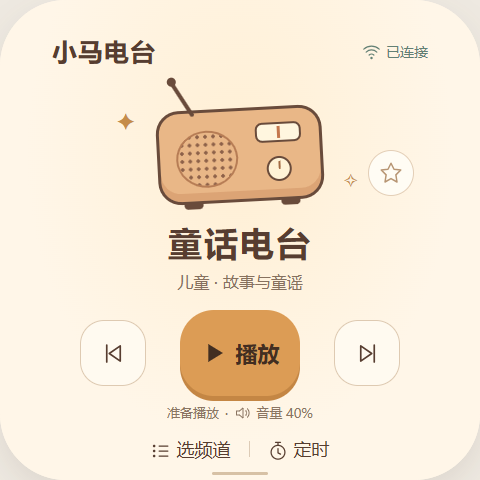
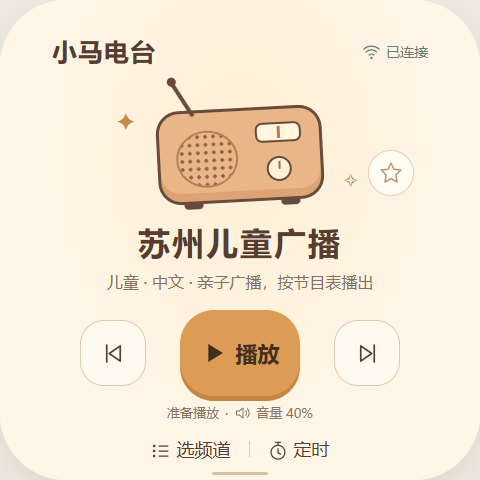
Verify real radio stations and align child-first channel prototype

Changed region(s): [[0.2188, 0.4688, 0.7812, 0.625]]

diff --git a/brookesia-apps/radio/design/preview.html b/brookesia-apps/radio/design/preview.html
@@ -1,7 +1,7 @@
 <!doctype html>
 <html lang="zh-CN"><head><meta charset="utf-8"><meta name="viewport" content="width=device-width,initial-scale=1"><title>小马电台 · 界面预览</title>
 <style>
-*{box-sizing:border-box}body{margin:0;background:#eee9e1;color:#573d30;font-family:"Microsoft YaHei","PingFang SC",sans-serif}button{font:inherit;color:inherit;cursor:pointer;-webkit-tap-highlight-color:transparent}button:focus-visible{outline:3px solid #668d83;outline-offset:3px}button:active{transform:translateY(1px)}[hidden]{display:none!important}.preview{width:min(520px,100%);margin:28px auto;padding:0 20px}.caption{display:flex;align-items:center;justify-content:space-between;margin:0 0 15px;font-size:13px;color:#79685b}.caption strong{font-size:16px;color:#573d30}.stage{position:relative;width:100%;aspect-ratio:1}.device{position:absolute;width:480px;height:480px;overflow:hidden;transform:scale(var(--scale,1));transform-origin:top left;border-radius:66px;background:#fff6e8;box-shadow:0 12px 30px #4e39231a}.screen{position:absolute;inset:0}.main{background:radial-gradient(ellipse at 50% 32%,#ffefd4 0,#fff6e8 63%)}.top{position:absolute;left:52px;right:52px;top:30px;height:42px;display:flex;align-items:center;justify-content:space-between}.brand{font-size:25px;font-weight:700;letter-spacing:1px}.connection{display:flex;align-items:center;gap:5px;color:#638074;font-size:14px}.icon{width:25px;height:25px;fill:none;stroke:currentColor;stroke-width:2;stroke-linecap:round;stroke-linejoin:round;vertical-align:middle}.connection .icon{width:19px;height:19px}.radio-art{position:absolute;left:157px;top:108px;width:166px;height:94px;background:#e9b787;border:3px solid #694b3b;border-radius:23px;box-shadow:inset 0 -8px #dca475;transform:rotate(-3deg)}.antenna{position:absolute;height:43px;width:4px;background:#694b3b;left:33px;top:-40px;transform-origin:bottom;transform:rotate(-30deg);border-radius:5px}.antenna:before{content:"";position:absolute;width:9px;height:9px;background:#694b3b;top:-2px;left:-2px;border-radius:50%}.speaker{position:absolute;left:16px;top:18px;width:62px;height:57px;border-radius:50%;border:2px solid #b77d55;background:radial-gradient(#8c6048 1.5px,transparent 2px) 0 0/8px 8px}.dial{position:absolute;right:18px;top:13px;width:46px;height:20px;background:#fff6df;border:2px solid #694b3b;border-radius:7px}.dial:after{content:"";position:absolute;left:20px;top:2px;width:3px;height:12px;background:#c4774d}.knob{position:absolute;right:29px;bottom:16px;width:25px;height:25px;background:#fff3d7;border:2px solid #694b3b;border-radius:50%}.knob:after{content:"";position:absolute;left:10px;top:3px;width:2px;height:8px;background:#a36b44;border-radius:2px}.foot{position:absolute;width:19px;height:6px;background:#694b3b;border-radius:0 0 4px 4px;bottom:-8px;left:22px}.foot.right{left:auto;right:22px}.spark{position:absolute;color:#c58c49;font-size:24px;left:116px;top:104px}.spark.right{left:343px;top:166px;font-size:19px}.station-name{position:absolute;top:220px;left:55px;right:55px;margin:0;font-size:34px;line-height:45px;text-align:center;font-weight:700;letter-spacing:2px}.station-meta{position:absolute;top:270px;left:50px;right:50px;text-align:center;font-size:16px;color:#87715e;line-height:24px}.favorite{position:absolute;top:150px;right:66px;background:#fffcf4;border:1px solid #e3ceb6;border-radius:50%;width:46px;height:46px;color:#b79573;display:grid;place-items:center}.favorite.active{color:#be7347;background:#ffe7c5}.favorite .icon{width:24px;height:24px}.favorite.active .icon{fill:#e4a870;stroke:#ae653b}.transport{position:absolute;top:310px;left:80px;right:80px;height:86px;display:flex;align-items:center;justify-content:space-between}.skip{width:66px;height:66px;background:#fffaf0;border:1px solid #decab2;border-radius:24px;display:grid;place-items:center}.skip .icon{width:27px;height:27px}.play{height:86px;width:120px;border:0;border-radius:34px;background:#dc9c55;box-shadow:0 5px 0 #c48644;display:flex;align-items:center;justify-content:center;gap:9px;color:#422e21;font-size:22px;font-weight:700}.play .icon{width:26px;height:26px;fill:currentColor;stroke-width:0}.status{position:absolute;top:403px;left:50px;right:50px;display:flex;align-items:center;justify-content:center;gap:6px;font-size:13px;color:#8b7562}.status .icon{width:16px;height:16px}.dot{height:5px;width:5px;background:#7b9878;border-radius:50%;margin-right:1px}.bottom{position:absolute;top:431px;left:105px;right:105px;display:flex;gap:12px;justify-content:center}.bottom button{height:36px;border:0;background:transparent;display:flex;align-items:center;justify-content:center;gap:6px;font-size:18px;white-space:nowrap;padding:0 6px}.bottom .icon{width:20px;height:20px}.divider{height:16px;width:1px;background:#ddcbb6;align-self:center}.gesture{position:absolute;left:212px;bottom:5px;width:56px;height:3px;border-radius:4px;background:#d7c1a5}.page-title{position:absolute;top:34px;left:60px;right:60px;display:flex;justify-content:center;align-items:center;font-size:26px;font-weight:700;height:42px}.back{position:absolute;left:0;width:44px;height:44px;border:0;background:transparent;border-radius:50%;display:grid;place-items:center}.categories{position:absolute;left:42px;right:42px;top:94px;display:flex;gap:7px}.category{flex:1;height:42px;border:0;border-radius:15px;background:#f4e7d4;font-size:18px}.category.active{background:#e5ad70;color:#4f3421;font-weight:700}.station-list{position:absolute;left:42px;right:42px;top:156px;display:grid;gap:13px}.station-row{border:1px solid #e1cdb5;min-height:76px;border-radius:23px;background:#fffaf1;padding:10px 13px;display:flex;align-items:center;text-align:left;gap:13px}.station-row.selected{border:2px solid #cb945b;background:#ffedcf;padding:9px 12px}.station-symbol{width:47px;height:47px;display:grid;place-items:center;border-radius:15px;background:#e6eadc;color:#6d805f;font-size:23px;font-weight:700;flex-shrink:0}.station-row:nth-child(2) .station-symbol{background:#e3e8ed;color:#6d7d93}.station-row:nth-child(3) .station-symbol{background:#f4e1ce;color:#ae7d59}.row-content{flex:1}.row-name{font-size:22px;font-weight:700;line-height:29px}.row-sub{font-size:13px;color:#937b65;margin-top:3px}.row-end{width:24px;color:#bd8349;display:grid;place-items:center}.row-end .icon{width:22px;height:22px}.list-footer{position:absolute;top:437px;left:60px;right:60px;text-align:center;font-size:14px;color:#947e6b}.empty{text-align:center;font-size:21px;color:#8e7660;padding:64px 0}.timer-sub{position:absolute;top:90px;text-align:center;left:50px;right:50px;font-size:16px;color:#8c7460}.timer-art{position:absolute;width:65px;height:65px;top:136px;left:207px;object-fit:contain}.timer-choices{position:absolute;top:226px;left:65px;right:65px;display:grid;grid-template-columns:1fr 1fr;gap:14px}.timer-choice{height:70px;background:#fffaf1;border:1px solid #ddc9b0;border-radius:22px;font-size:24px}.timer-choice.active{background:#ffebc7;border:2px solid #c48d53;font-weight:700}.timer-confirm{position:absolute;top:405px;left:144px;width:192px;height:46px;border:0;border-radius:19px;background:#dca05e;font-size:21px;font-weight:700}.timer-note{position:absolute;top:381px;left:50px;right:50px;text-align:center;font-size:13px;color:#937b65}.equ{display:flex;height:14px;align-items:center;gap:2px;margin-right:3px}.equ i{display:block;width:3px;height:6px;border-radius:3px;background:#789471}.equ i:nth-child(2){height:12px}.equ i:nth-child(3){height:8px}.hint{font-size:12px;line-height:1.8;color:#8c7d6b;text-align:center;margin:18px 0 0}.preview-nav{display:flex;justify-content:center;gap:8px;margin-top:18px}.preview-nav button{border:1px solid #cfc2b1;background:transparent;border-radius:20px;padding:8px 16px;color:#6b5846;font-size:13px}.preview-nav button:hover{background:#e6ddd0}@media(max-width:400px){.caption{font-size:11px}.caption strong{font-size:14px}.preview{margin:20px auto}.preview-nav button{padding:8px 12px}}@media(prefers-reduced-motion:no-preference){.playing .equ i{animation:level .9s ease-in-out infinite alternate}.playing .equ i:nth-child(2){animation-delay:-.3s}.playing .equ i:nth-child(3){animation-delay:-.6s}@keyframes level{to{height:3px}}}
+*{box-sizing:border-box}body{margin:0;background:#eee9e1;color:#573d30;font-family:"Microsoft YaHei","PingFang SC",sans-serif}button{font:inherit;color:inherit;cursor:pointer;-webkit-tap-highlight-color:transparent}button:focus-visible{outline:3px solid #668d83;outline-offset:3px}button:active{transform:translateY(1px)}[hidden]{display:none!important}.preview{width:min(520px,100%);margin:28px auto;padding:0 20px}.caption{display:flex;align-items:center;justify-content:space-between;margin:0 0 15px;font-size:13px;color:#79685b}.caption strong{font-size:16px;color:#573d30}.stage{position:relative;width:100%;aspect-ratio:1}.device{position:absolute;width:480px;height:480px;overflow:hidden;transform:scale(var(--scale,1));transform-origin:top left;border-radius:66px;background:#fff6e8;box-shadow:0 12px 30px #4e39231a}.screen{position:absolute;inset:0}.main{background:radial-gradient(ellipse at 50% 32%,#ffefd4 0,#fff6e8 63%)}.top{position:absolute;left:52px;right:52px;top:30px;height:42px;display:flex;align-items:center;justify-content:space-between}.brand{font-size:25px;font-weight:700;letter-spacing:1px}.connection{display:flex;align-items:center;gap:5px;color:#638074;font-size:14px}.icon{width:25px;height:25px;fill:none;stroke:currentColor;stroke-width:2;stroke-linecap:round;stroke-linejoin:round;vertical-align:middle}.connection .icon{width:19px;height:19px}.radio-art{position:absolute;left:157px;top:108px;width:166px;height:94px;background:#e9b787;border:3px solid #694b3b;border-radius:23px;box-shadow:inset 0 -8px #dca475;transform:rotate(-3deg)}.antenna{position:absolute;height:43px;width:4px;background:#694b3b;left:33px;top:-40px;transform-origin:bottom;transform:rotate(-30deg);border-radius:5px}.antenna:before{content:"";position:absolute;width:9px;height:9px;background:#694b3b;top:-2px;left:-2px;border-radius:50%}.speaker{position:absolute;left:16px;top:18px;width:62px;height:57px;border-radius:50%;border:2px solid #b77d55;background:radial-gradient(#8c6048 1.5px,transparent 2px) 0 0/8px 8px}.dial{position:absolute;right:18px;top:13px;width:46px;height:20px;background:#fff6df;border:2px solid #694b3b;border-radius:7px}.dial:after{content:"";position:absolute;left:20px;top:2px;width:3px;height:12px;background:#c4774d}.knob{position:absolute;right:29px;bottom:16px;width:25px;height:25px;background:#fff3d7;border:2px solid #694b3b;border-radius:50%}.knob:after{content:"";position:absolute;left:10px;top:3px;width:2px;height:8px;background:#a36b44;border-radius:2px}.foot{position:absolute;width:19px;height:6px;background:#694b3b;border-radius:0 0 4px 4px;bottom:-8px;left:22px}.foot.right{left:auto;right:22px}.spark{position:absolute;color:#c58c49;font-size:24px;left:116px;top:104px}.spark.right{left:343px;top:166px;font-size:19px}.station-name{white-space:nowrap;position:absolute;top:220px;left:55px;right:55px;margin:0;font-size:32px;line-height:45px;text-align:center;font-weight:700;letter-spacing:2px}.station-meta{position:absolute;top:270px;left:50px;right:50px;text-align:center;font-size:16px;color:#87715e;line-height:24px}.favorite{position:absolute;top:150px;right:66px;background:#fffcf4;border:1px solid #e3ceb6;border-radius:50%;width:46px;height:46px;color:#b79573;display:grid;place-items:center}.favorite.active{color:#be7347;background:#ffe7c5}.favorite .icon{width:24px;height:24px}.favorite.active .icon{fill:#e4a870;stroke:#ae653b}.transport{position:absolute;top:310px;left:80px;right:80px;height:86px;display:flex;align-items:center;justify-content:space-between}.skip{width:66px;height:66px;background:#fffaf0;border:1px solid #decab2;border-radius:24px;display:grid;place-items:center}.skip .icon{width:27px;height:27px}.play{height:86px;width:120px;border:0;border-radius:34px;background:#dc9c55;box-shadow:0 5px 0 #c48644;display:flex;align-items:center;justify-content:center;gap:9px;color:#422e21;font-size:22px;font-weight:700}.play .icon{width:26px;height:26px;fill:currentColor;stroke-width:0}.status{position:absolute;top:403px;left:50px;right:50px;display:flex;align-items:center;justify-content:center;gap:6px;font-size:13px;color:#8b7562}.status .icon{width:16px;height:16px}.dot{height:5px;width:5px;background:#7b9878;border-radius:50%;margin-right:1px}.bottom{position:absolute;top:431px;left:105px;right:105px;display:flex;gap:12px;justify-content:center}.bottom button{height:36px;border:0;background:transparent;display:flex;align-items:center;justify-content:center;gap:6px;font-size:18px;white-space:nowrap;padding:0 6px}.bottom .icon{width:20px;height:20px}.divider{height:16px;width:1px;background:#ddcbb6;align-self:center}.gesture{position:absolute;left:212px;bottom:5px;width:56px;height:3px;border-radius:4px;background:#d7c1a5}.page-title{position:absolute;top:34px;left:60px;right:60px;display:flex;justify-content:center;align-items:center;font-size:26px;font-weight:700;height:42px}.back{position:absolute;left:0;width:44px;height:44px;border:0;background:transparent;border-radius:50%;display:grid;place-items:center}.categories{position:absolute;left:42px;right:42px;top:94px;display:flex;gap:7px}.category{flex:1;height:42px;border:0;border-radius:15px;background:#f4e7d4;font-size:18px}.category.active{background:#e5ad70;color:#4f3421;font-weight:700}.station-list{position:absolute;left:42px;right:42px;top:156px;display:grid;gap:13px}.station-row{border:1px solid #e1cdb5;min-height:76px;border-radius:23px;background:#fffaf1;padding:10px 13px;display:flex;align-items:center;text-align:left;gap:13px}.station-row.selected{border:2px solid #cb945b;background:#ffedcf;padding:9px 12px}.station-symbol{width:47px;height:47px;display:grid;place-items:center;border-radius:15px;background:#e6eadc;color:#6d805f;font-size:23px;font-weight:700;flex-shrink:0}.station-row:nth-child(2) .station-symbol{background:#e3e8ed;color:#6d7d93}.station-row:nth-child(3) .station-symbol{background:#f4e1ce;color:#ae7d59}.row-content{flex:1;min-width:0}.row-name{display:block;white-space:nowrap}.station-list{max-height:266px;overflow-y:auto;scrollbar-width:thin}.row-name{font-size:22px;font-weight:700;line-height:29px}.row-sub{font-size:13px;color:#937b65;margin-top:3px}.row-end{width:24px;color:#bd8349;display:grid;place-items:center}.row-end .icon{width:22px;height:22px}.list-footer{position:absolute;top:437px;left:60px;right:60px;text-align:center;font-size:14px;color:#947e6b}.empty{text-align:center;font-size:21px;color:#8e7660;padding:64px 0}.timer-sub{position:absolute;top:90px;text-align:center;left:50px;right:50px;font-size:16px;color:#8c7460}.timer-art{position:absolute;width:65px;height:65px;top:136px;left:207px;object-fit:contain}.timer-choices{position:absolute;top:226px;left:65px;right:65px;display:grid;grid-template-columns:1fr 1fr;gap:14px}.timer-choice{height:70px;background:#fffaf1;border:1px solid #ddc9b0;border-radius:22px;font-size:24px}.timer-choice.active{background:#ffebc7;border:2px solid #c48d53;font-weight:700}.timer-confirm{position:absolute;top:405px;left:144px;width:192px;height:46px;border:0;border-radius:19px;background:#dca05e;font-size:21px;font-weight:700}.timer-note{position:absolute;top:381px;left:50px;right:50px;text-align:center;font-size:13px;color:#937b65}.equ{display:flex;height:14px;align-items:center;gap:2px;margin-right:3px}.equ i{display:block;width:3px;height:6px;border-radius:3px;background:#789471}.equ i:nth-child(2){height:12px}.equ i:nth-child(3){height:8px}.hint{font-size:12px;line-height:1.8;color:#8c7d6b;text-align:center;margin:18px 0 0}.preview-nav{display:flex;justify-content:center;gap:8px;margin-top:18px}.preview-nav button{border:1px solid #cfc2b1;background:transparent;border-radius:20px;padding:8px 16px;color:#6b5846;font-size:13px}.preview-nav button:hover{background:#e6ddd0}@media(max-width:400px){.caption{font-size:11px}.caption strong{font-size:14px}.preview{margin:20px auto}.preview-nav button{padding:8px 12px}}@media(prefers-reduced-motion:no-preference){.playing .equ i{animation:level .9s ease-in-out infinite alternate}.playing .equ i:nth-child(2){animation-delay:-.3s}.playing .equ i:nth-child(3){animation-delay:-.6s}@keyframes level{to{height:3px}}}
 </style></head><body>
 <main class="preview"><div class="caption"><strong>小马电台 · 奶油手绘风</strong><span>480 × 480</span></div><div class="stage"><div id="device" class="device">
 <section id="player" class="screen main" aria-label="电台播放页">
@@ -9,26 +9,27 @@
  <span class="spark" aria-hidden="true">✦</span><span class="spark right" aria-hidden="true">✧</span>
  <div class="radio-art" aria-hidden="true"><div class="antenna"></div><div class="speaker"></div><div class="dial"></div><div class="knob"></div><div class="foot"></div><div class="foot right"></div></div>
  <button id="favorite" class="favorite" aria-label="收藏当前频道" aria-pressed="false"><span data-icon="star"></span></button>
- <h1 id="station-name" class="station-name">童话电台</h1><div id="station-meta" class="station-meta">儿童 · 故事与童谣</div>
+ <h1 id="station-name" class="station-name">苏州儿童广播</h1><div id="station-meta" class="station-meta">儿童 · 中文 · 亲子广播，按节目表播出</div>
  <div class="transport"><button id="previous" class="skip" aria-label="上一个频道"><span data-icon="previous"></span></button><button id="play" class="play" aria-label="播放"><span data-icon="play"></span><span id="play-label">播放</span></button><button id="next" class="skip" aria-label="下一个频道"><span data-icon="next"></span></button></div>
  <div class="status" aria-live="polite"><span id="stream-status">准备播放</span><span>·</span><span data-icon="volume"></span><span>音量 40%</span></div>
  <nav class="bottom"><button data-open="stations"><span data-icon="list"></span>选频道</button><span class="divider"></span><button data-open="timer"><span data-icon="timer"></span><span id="timer-label">定时</span></button></nav>
 </section>
-<section id="stations" class="screen" hidden aria-label="选择电台频道"><div class="page-title"><button class="back" data-open="player" aria-label="返回播放页"><span data-icon="back"></span></button>选频道</div><div class="categories" aria-label="频道分类"><button class="category active" data-category="儿童">儿童</button><button class="category" data-category="音乐">音乐</button><button class="category" data-category="资讯">资讯</button><button class="category" data-category="收藏">收藏</button></div><div id="station-list" class="station-list" aria-live="polite"></div><div class="list-footer">点选频道，即可收听</div></section>
+<section id="stations" class="screen" hidden aria-label="选择电台频道"><div class="page-title"><button class="back" data-open="player" aria-label="返回播放页"><span data-icon="back"></span></button>选频道</div><div class="categories" aria-label="频道分类"><button class="category active" data-category="儿童">儿童</button><button class="category" data-category="音乐">音乐</button><button class="category" data-category="资讯">资讯</button><button class="category" data-category="收藏">收藏</button></div><div id="station-list" class="station-list" aria-live="polite"></div><div class="list-footer">中文优先 · 英语频道已标注</div></section>
 <section id="timer" class="screen" hidden aria-label="电台睡眠定时"><div class="page-title"><button class="back" data-open="player" aria-label="返回播放页"><span data-icon="back"></span></button>睡眠定时</div><div class="timer-sub">到时停止播放，陪你安心入睡</div><img class="timer-art" src="../../weather/src/res/images/wx_moon.png" alt=""><div class="timer-choices"><button class="timer-choice active" data-minutes="0">关闭</button><button class="timer-choice" data-minutes="15">15 分钟</button><button class="timer-choice" data-minutes="30">30 分钟</button><button class="timer-choice" data-minutes="45">45 分钟</button></div><div id="timer-note" class="timer-note">持续收听，不自动停止</div><button id="timer-confirm" class="timer-confirm">确定</button></section><div class="gesture" aria-hidden="true"></div>
-</div></div><nav class="preview-nav" aria-label="预览页面"><button data-open="player">播放页</button><button data-open="stations">频道页</button><button data-open="timer">定时页</button></nav><p class="hint">交互预览 · 频道名称为示例 · 不连接实际音频</p></main>
+</div></div><nav class="preview-nav" aria-label="预览页面"><button data-open="player">播放页</button><button data-open="stations">频道页</button><button data-open="timer">定时页</button></nav><p class="hint">真实频道名称 · 中文优先，少量英语 · 预览不播放音频</p></main>
+<script type="application/json" id="radio-catalog">{"schema":1,"scope":"general_internet_radio","region_switch":false,"categories":["儿童","音乐","资讯","收藏"],"stations":[{"id":"suzhou-qtfm","name":"苏州儿童广播","display_name":"苏州儿童广播","group":"儿童","sub":"中文 · 亲子广播，按节目表播出","symbol":"童","language":"zh-CN","content":"亲子综合广播，含新闻、音乐等非故事节目；不是全天儿童故事或纯儿歌频道。","broadcaster":"苏州市广播电视总台","identity_source":"https://m.qtfm.cn/channels/2807/","stream_source":"https://m.qtfm.cn/channels/2807/","stream_url":"https://lhttp.qtfm.cn/live/2807/64k.mp3","verification":{"date":"2026-11-02","scope":"computer_short_segment_decode","network_route":"configured_proxy","http_status":200,"sample_bytes":131072,"decoded_seconds":2,"audio":"mp3 (mp3float), 48000 Hz, stereo, fltp, 64 kb/s","device_playback_verified":false}},{"id":"junior-0","name":"Fun Kids Junior","display_name":"Fun Kids Junior","group":"儿童","sub":"英语 · 低龄儿歌与陪伴","symbol":"歌","language":"en-GB","content":"面向低龄儿童的歌曲与陪伴；夜间故事、摇篮曲按英国当地节目时间安排。","broadcaster":"Children's Radio UK Ltd","identity_source":"https://www.funkidslive.com/news/whats-fun-kids-junior-and-how-do-i-listen/","stream_source":"https://www.funkidslive.com/player/junior/","stream_url":"https://listen-funkids.sharp-stream.com/funkidsjunior.aac?platform=website","verification":{"date":"2026-11-02","scope":"computer_short_segment_decode","network_route":"configured_proxy","http_status":200,"sample_bytes":131072,"decoded_seconds":2,"audio":"aac (HE-AAC), 44100 Hz, stereo, fltp, 64 kb/s","device_playback_verified":false}},{"id":"story-quest-0","name":"Fun Kids Story Quest Radio","display_name":"Story Quest","group":"儿童","sub":"英语 · Fun Kids 原创故事","symbol":"书","language":"en-GB","content":"连续播出的原创故事频道；不是中文故事，未承诺全部内容适合1至3岁。","broadcaster":"Children's Radio UK Ltd","identity_source":"https://www.funkidslive.com/stations/what-is-fun-kids-story-quest-radio-and-how-do-i-listen/","stream_source":"https://www.funkidslive.com/player/story-quest/","stream_url":"https://stream.rcs.revma.com/d3xb3hq3tm0uv","verification":{"date":"2026-11-02","scope":"computer_short_segment_decode","network_route":"configured_proxy","http_status":200,"sample_bytes":131072,"decoded_seconds":2,"audio":"aac (HE-AAC), 44100 Hz, stereo, fltp, 47 kb/s","device_playback_verified":false}},{"id":"cnr-classic","name":"经典音乐广播","group":"音乐","sub":"中文 · 央广经典音乐","symbol":"典","broadcaster":"中央广播电视总台","identity_source":"https://ent.cnr.cn/ylzt/goldenradio/","stream_url":"https://ngcdn001.cnr.cn/live/dszs/index.m3u8","verification":{"date":"2026-11-02","scope":"computer_short_segment_decode","playlist_http_status":200,"segment_http_status":200,"segment_bytes":252296,"decoded_seconds":2,"audio":"aac (LC) ([15][0][0][0] / 0x000F), 48000 Hz, stereo, fltp, 192 kb/s","device_playback_verified":false,"network_route":"configured_proxy"},"display_name":"经典音乐广播","language":"zh-CN","content":"按电台节目表播出；不是全天轻音乐或儿童专属频道。"},{"id":"naps-0","name":"Fun Kids Naps","display_name":"Fun Kids Naps","group":"音乐","sub":"英语 · 摇篮曲与睡眠音乐","symbol":"眠","language":"en-GB","content":"以摇篮曲、舒缓睡眠音乐为主，含英语歌曲。","broadcaster":"Children's Radio UK Ltd","identity_source":"https://www.funkidslive.com/stations/fun-kids-naps/what-is-fun-kids-naps/","stream_source":"https://www.funkidslive.com/player/naps/","stream_url":"https://stream.rcs.revma.com/pp2cg1z3tm0uv","verification":{"date":"2026-11-02","scope":"computer_short_segment_decode","network_route":"configured_proxy","http_status":200,"sample_bytes":131072,"decoded_seconds":2,"audio":"mp3 (mp3float), 44100 Hz, stereo, fltp, 128 kb/s","device_playback_verified":false}},{"id":"sleep-sounds-0","name":"Fun Kids Sleep Sounds","display_name":"Sleep Sounds","group":"音乐","sub":"自然声音 · 海浪、雨声与溪流","symbol":"雨","language":"nature","content":"自然环境声，包括海浪、风、雨与炉火、鸟鸣、溪流和林间声；不是中文朗读。","broadcaster":"Children's Radio UK Ltd","identity_source":"https://www.funkidslive.com/stations/what-is-fun-kids-sleep-sounds-and-how-do-i-listen/","stream_source":"https://www.funkidslive.com/player/sleep-sounds/","stream_url":"https://stream.rcs.revma.com/5skkr2gtuy8uv","verification":{"date":"2026-11-02","scope":"computer_short_segment_decode","network_route":"configured_proxy","http_status":200,"sample_bytes":131072,"decoded_seconds":2,"audio":"aac (HE-AAC), 44100 Hz, stereo, fltp, 47 kb/s","device_playback_verified":false}},{"id":"cnr-news","name":"中国之声","group":"资讯","sub":"中文 · 新闻资讯","symbol":"新","broadcaster":"中央广播电视总台","identity_source":"https://news.cnr.cn/dj/20260216/t20260216_527529018.shtml","stream_url":"https://ngcdn001.cnr.cn/live/zgzs/index.m3u8","verification":{"date":"2026-11-02","scope":"computer_short_segment_decode","playlist_http_status":200,"segment_http_status":200,"segment_bytes":252484,"decoded_seconds":2,"audio":"aac (LC) ([15][0][0][0] / 0x000F), 48000 Hz, stereo, fltp, 192 kb/s","device_playback_verified":false,"network_route":"configured_proxy"},"display_name":"中国之声","language":"zh-CN","content":"综合新闻或财经资讯，面向普通听众。"},{"id":"cnr-economy","name":"经济之声","group":"资讯","sub":"中文 · 财经资讯","symbol":"经","broadcaster":"中央广播电视总台","identity_source":"https://news.cnr.cn/dj/20260216/t20260216_527529018.shtml","stream_url":"https://ngcdn002.cnr.cn/live/jjzs/index.m3u8","verification":{"date":"2026-11-02","scope":"computer_short_segment_decode","playlist_http_status":200,"segment_http_status":200,"segment_bytes":253612,"decoded_seconds":2,"audio":"aac (LC) ([15][0][0][0] / 0x000F), 48000 Hz, stereo, fltp, 192 kb/s","device_playback_verified":false,"network_route":"configured_proxy"},"display_name":"经济之声","language":"zh-CN","content":"综合新闻或财经资讯，面向普通听众。"}],"limitations":["Official/provider identity and a short computer decode verified on 2026-11-02 through the configured proxy. Direct device connectivity and long-term stability remain unverified.","The interface remains a silent prototype; selecting a station makes no network request.","Children category is a content grouping, not a guarantee of every programme being suitable for ages 1 to 3. Chinese family radio is not an all-day story channel.","Public stream availability may change. Provider sites/apps remain the fallback."]}</script>
 <script>
 (()=>{'use strict';
 const shapes={wifi:'<path d="M3 12a19 19 0 0 1 26 0M7 17a13 13 0 0 1 18 0M12 22a6 6 0 0 1 8 0"/><circle cx="16" cy="27" r="1"/>',play:'<path d="M9 5v22l18-11z"/>',pause:'<rect x="7" y="5" width="6" height="22" rx="2"/><rect x="19" y="5" width="6" height="22" rx="2"/>',previous:'<path d="M8 6v20M24 7L11 16l13 9z"/>',next:'<path d="M24 6v20M8 7l13 9-13 9z"/>',star:'<path d="m16 3 4 8 9 1-6.5 6.5L24 28l-8-4.5L8 28l1.5-9.5L3 12l9-1z"/>',list:'<path d="M13 8h14M13 16h14M13 24h14"/><circle cx="5" cy="8" r="1"/><circle cx="5" cy="16" r="1"/><circle cx="5" cy="24" r="1"/>',timer:'<circle cx="16" cy="18" r="11"/><path d="M16 12v7l4 2M12 2h8M16 2v5"/>',volume:'<path d="m5 12 6 0 7-6v20l-7-6H5zM23 11a7 7 0 0 1 0 10M26 7a12 12 0 0 1 0 18"/>',back:'<path d="m20 6-10 10 10 10"/>',check:'<path d="m6 16 7 7L27 8"/>'};
 const icon=name=>'<svg class="icon" viewBox="0 0 32 32" aria-hidden="true">'+shapes[name]+'</svg>';
 document.querySelectorAll('[data-icon]').forEach(n=>n.innerHTML=icon(n.dataset.icon));
-const channels=[{name:'童话电台',group:'儿童',sub:'故事与童谣',symbol:'童'},{name:'睡前故事',group:'儿童',sub:'轻声陪伴，慢慢入睡',symbol:'月'},{name:'童谣小屋',group:'儿童',sub:'一起唱，开心听',symbol:'乐'},{name:'轻音乐电台',group:'音乐',sub:'轻松旋律',symbol:'音'},{name:'钢琴时光',group:'音乐',sub:'安静的琴声',symbol:'琴'},{name:'自然之声',group:'音乐',sub:'风声、鸟鸣与雨声',symbol:'森'},{name:'新闻电台',group:'资讯',sub:'听见今日新鲜事',symbol:'新'},{name:'城市之声',group:'资讯',sub:'身边的人与故事',symbol:'城'},{name:'文化漫谈',group:'资讯',sub:'听一段好时光',symbol:'文'}];
+const channels=JSON.parse(document.getElementById('radio-catalog').textContent).stations;
 let current=0,playing=false,category='儿童',minutes=0,draftMinutes=0;const favorites=new Set();
 const byId=id=>document.getElementById(id);
 function show(screen){['player','stations','timer'].forEach(s=>byId(s).hidden=s!==screen);if(screen==='stations')renderList();if(screen==='timer'){draftMinutes=minutes;renderTimer();}}
-function renderPlayer(){const ch=channels[current];byId('station-name').textContent=ch.name;byId('station-meta').textContent=ch.group+' · '+ch.sub;byId('play').innerHTML=icon(playing?'pause':'play')+'<span>'+(playing?'暂停':'播放')+'</span>';byId('play').setAttribute('aria-label',playing?'暂停':'播放');byId('player').classList.toggle('playing',playing);byId('stream-status').innerHTML=playing?'<span class="equ" aria-hidden="true"><i></i><i></i><i></i></span>正在播放':'准备播放';byId('stream-status').style.display='inline-flex';byId('stream-status').style.alignItems='center';byId('favorite').classList.toggle('active',favorites.has(current));byId('favorite').setAttribute('aria-pressed',String(favorites.has(current)));byId('favorite').setAttribute('aria-label',favorites.has(current)?'取消收藏当前频道':'收藏当前频道');byId('timer-label').textContent=minutes?minutes+'分钟':'定时';}
+function renderPlayer(){const ch=channels[current];byId('station-name').textContent=ch.display_name||ch.name;byId('station-meta').textContent=ch.group+' · '+ch.sub;byId('play').innerHTML=icon(playing?'pause':'play')+'<span>'+(playing?'暂停':'播放')+'</span>';byId('play').setAttribute('aria-label',playing?'暂停':'播放');byId('player').classList.toggle('playing',playing);byId('stream-status').innerHTML=playing?'<span class="equ" aria-hidden="true"><i></i><i></i><i></i></span>正在播放':'准备播放';byId('stream-status').style.display='inline-flex';byId('stream-status').style.alignItems='center';byId('favorite').classList.toggle('active',favorites.has(current));byId('favorite').setAttribute('aria-pressed',String(favorites.has(current)));byId('favorite').setAttribute('aria-label',favorites.has(current)?'取消收藏当前频道':'收藏当前频道');byId('timer-label').textContent=minutes?minutes+'分钟':'定时';}
 function select(index){current=index;playing=true;renderPlayer();show('player');}
-function renderList(){document.querySelectorAll('.category').forEach(b=>{b.classList.toggle('active',b.dataset.category===category);b.setAttribute('aria-pressed',String(b.dataset.category===category));});const rows=channels.map((c,i)=>({c,i})).filter(({c,i})=>category==='收藏'?favorites.has(i):c.group===category);byId('station-list').innerHTML=rows.length?rows.map(({c,i})=>'<button class="station-row '+(i===current?'selected':'')+'" data-station="'+i+'"><span class="station-symbol">'+c.symbol+'</span><span class="row-content"><span class="row-name">'+c.name+'</span><span class="row-sub" style="display:block">'+c.sub+'</span></span><span class="row-end">'+(i===current?icon('check'):'')+'</span></button>').join(''):'<div class="empty">还没有收藏的频道</div>';byId('station-list').querySelectorAll('[data-station]').forEach(b=>b.onclick=()=>select(Number(b.dataset.station)));}
+function renderList(){document.querySelectorAll('.category').forEach(b=>{b.classList.toggle('active',b.dataset.category===category);b.setAttribute('aria-pressed',String(b.dataset.category===category));});const rows=channels.map((c,i)=>({c,i})).filter(({c,i})=>category==='收藏'?favorites.has(i):c.group===category);byId('station-list').innerHTML=rows.length?rows.map(({c,i})=>'<button class="station-row '+(i===current?'selected':'')+'" data-station="'+i+'"><span class="station-symbol">'+c.symbol+'</span><span class="row-content"><span class="row-name">'+(c.display_name||c.name)+'</span><span class="row-sub" style="display:block">'+c.sub+'</span></span><span class="row-end">'+(i===current?icon('check'):'')+'</span></button>').join(''):'<div class="empty">还没有收藏的频道</div>';byId('station-list').querySelectorAll('[data-station]').forEach(b=>b.onclick=()=>select(Number(b.dataset.station)));}
 function renderTimer(){document.querySelectorAll('[data-minutes]').forEach(b=>{b.classList.toggle('active',Number(b.dataset.minutes)===draftMinutes);b.setAttribute('aria-pressed',String(Number(b.dataset.minutes)===draftMinutes));});byId('timer-note').textContent=draftMinutes?draftMinutes+' 分钟后停止播放':'持续收听，不自动停止';}
 document.querySelectorAll('[data-open]').forEach(b=>b.onclick=()=>show(b.dataset.open));document.querySelectorAll('[data-category]').forEach(b=>b.onclick=()=>{category=b.dataset.category;renderList();});document.querySelectorAll('[data-minutes]').forEach(b=>b.onclick=()=>{draftMinutes=Number(b.dataset.minutes);renderTimer();});byId('play').onclick=()=>{playing=!playing;renderPlayer();};byId('favorite').onclick=()=>{favorites.has(current)?favorites.delete(current):favorites.add(current);renderPlayer();};function skip(step){let candidates=channels.map((ch,i)=>({ch,i})).filter(({ch,i})=>category==='收藏'?favorites.has(i):ch.group===channels[current].group).map(({i})=>i);if(!candidates.length)candidates=[current];const at=candidates.indexOf(current);select(candidates[(at+step+candidates.length)%candidates.length]);}byId('previous').onclick=()=>skip(-1);byId('next').onclick=()=>skip(1);byId('timer-confirm').onclick=()=>{minutes=draftMinutes;renderPlayer();show('player');};
 const stage=document.querySelector('.stage');new ResizeObserver(()=>{stage.style.setProperty('--scale',stage.clientWidth/480);}).observe(stage);renderPlayer();renderList();renderTimer();

diff --git a/brookesia-apps/radio/STATIONS.md b/brookesia-apps/radio/STATIONS.md
@@ -1,0 +1,31 @@
+# 网络电台频道核验
+
+核验日期：2026-11-02。保留最初的儿童故事/儿歌、舒缓音乐/自然声音、资讯方向；按通用网络电台设计，不按上海、青岛等地区划分。中文频道优先排列，补充三路英语内容和一路自然环境声。列表中的名称对应真实频道，不再使用“童话电台”“童谣小屋”等虚构台名。
+
+| 分类 | 原型显示名 | 实际频道与内容依据 | 语言与节目边界 | 短测音频格式 |
+| --- | --- | --- | --- | --- |
+| 儿童 | 苏州儿童广播 | [蜻蜓FM频道2807](https://m.qtfm.cn/channels/2807/)，亲子957 | 中文；亲子综合台，包含新闻、歌曲等，按节目表播出，并非全天故事 | MP3，48kHz，双声道，64kbps |
+| 儿童 | Fun Kids Junior | [官方介绍](https://www.funkidslive.com/news/whats-fun-kids-junior-and-how-do-i-listen/)，面向低龄听众 | 英语；儿歌和陪伴，夜间故事/摇篮曲按英国时间安排 | HE-AAC，44.1kHz，双声道，64kbps |
+| 儿童 | Story Quest | [Fun Kids Story Quest Radio官方介绍](https://www.funkidslive.com/stations/what-is-fun-kids-story-quest-radio-and-how-do-i-listen/)，连续原创故事 | 英语；不是中文故事，也不保证全部适合1至3岁 | HE-AAC，44.1kHz，双声道，约47kbps |
+| 音乐 | 经典音乐广播 | [央广官方介绍](https://ent.cnr.cn/ylzt/goldenradio/)、[2026年官方报道](https://news.cnr.cn/native/gd/20260914/t20260914_527813513.shtml) | 中文导播与音乐；不是全天钢琴或纯轻音乐 | HLS/AAC-LC，48kHz，双声道，192kbps |
+| 音乐 | Fun Kids Naps | [官方介绍](https://www.funkidslive.com/stations/fun-kids-naps/what-is-fun-kids-naps/)，摇篮曲与睡眠音乐 | 英语歌曲；对应原先睡眠音乐方向 | MP3，44.1kHz，双声道，128kbps |
+| 音乐 | Sleep Sounds | [Fun Kids Sleep Sounds官方介绍](https://www.funkidslive.com/stations/what-is-fun-kids-sleep-sounds-and-how-do-i-listen/)，海浪、风、雨/炉火、鸟鸣、溪流、森林声音 | 自然环境声；对应原先自然之声方向，不是中文朗读 | HE-AAC，44.1kHz，双声道，约47kbps |
+| 资讯 | 中国之声 | [央广官方报道](https://news.cnr.cn/dj/20260216/t20260216_527529018.shtml) | 中文新闻资讯，普通听众频道 | HLS/AAC-LC，48kHz，双声道，192kbps |
+| 资讯 | 经济之声 | [央广官方报道](https://news.cnr.cn/dj/20260216/t20260216_527529018.shtml) | 中文财经资讯，普通听众频道 | HLS/AAC-LC，48kHz，双声道，192kbps |
+
+## 音源与验证范围
+
+稳定入口及逐台结果保存于 [stations.json](stations.json)。Fun Kids入口直接取自各台官方播放器公开配置；苏州台身份和直播ID来自蜻蜓FM频道页，公开MP3入口经实际读取验证；央广入口由公开目录线索定位，再按官方台名与音频响应核对。只保存稳定入口，不保存CDN跳转中短期生成的参数，也不提交音频采样。
+
+- 八个入选音源均HTTP 200。连续流各读取128KiB；HLS读取播放列表及一个约250KiB片段，FFmpeg解码前2秒成功。此检查验证有可解码音频，不能替代长时监听、逐节目内容检查或独立听辨台号。
+- 测试走电脑配置的代理网络，因此不能据此承诺开发板直接联网、所有运营商或境外源的国内稳定性。当前界面仍是静音交互原型，音源未接入设备。
+- HE-AAC与HLS在设备上的解码支持、重定向、缓冲、断线恢复和内存占用须在播放器开发阶段验证；不能把电脑解码成功当作ESP32已兼容。
+- 儿童广播可能穿插其他节目或宣传；儿童分类是内容分组，不是已逐项审核的低龄内容白名单。中文全天故事/纯儿歌直播尚未核实到可直接采用的来源，不用点播专辑冒充直播台。
+
+## 未采用的候选与旧入口
+
+- 蜻蜓旧链接中的`20211692`不是此次可用的苏州台频道入口；采用当前频道页确认的`2807`。
+- 央广部分旧目录主机返回403；未绕过限制，改用正常公开响应且可解码的入口。音乐之声、文艺之声虽也通过短测，本次优先保留更贴近原设计的舒缓/自然声音，没有另建文艺分类。
+- ABC Kids listen的[官方访问说明](https://help.abc.net.au/hc/en-us/articles/360001184395-How-can-I-access-ABC-Kids-listen)标明仅限澳大利亚，未列入设备候选。
+
+后续默认进入中文儿童台；若希望“打开就一定是中文睡前故事”，应使用现有听书书库，或另做经授权的中文点播入口，而不是给综合广播改成“睡前故事”的台名。

diff --git a/brookesia-apps/radio/README.md b/brookesia-apps/radio/README.md
@@ -1,6 +1,8 @@
 # 小马电台：界面设计稿
 
-当前仅为界面与交互预览，尚未接入音频流、安装到设备或占用设备音频服务。频道名称、连接状态和音量均为示例，不代表已经确认可用的直播源。网页不发起任何网络请求，也不实际播放声音。
+当前为界面与交互预览，尚未接入播放器、安装到设备或占用设备音频服务。频道已替换为真实广播名称，并完成电脑端短时音频解码核验；连接状态、播放状态和音量仍为演示。网页不发起网络请求，也不实际播放声音。
+
+按“中文优先、少量英语”，保留原设计的儿童/音乐/资讯/收藏，不按地区分组。首屏默认中文苏州儿童广播；英语故事、儿歌与摇篮曲明确标注语言。频道依据、节目区别与验证边界见 [频道核验](STATIONS.md)，公开元数据与音源入口见 [stations.json](stations.json)。JSON同时内嵌于HTML，方便双击本地预览，不依赖本地服务器。
 
 打开 [交互预览](design/preview.html) 可体验播放/暂停、上下频道、收藏与分类、频道选择、睡眠定时。设计画布480×480，采用奶油手绘风、大号文字和触摸目标；首页聚焦当前频道，底部仅留“选频道”和“定时”。音量复用设备两侧实体键，显示当前值，中间电源键保持系统行为。
 
@@ -8,12 +10,14 @@
 | --- | --- | --- |
 | ![播放](design/preview-player.png) | ![频道](design/preview-stations.png) | ![定时](design/preview-timer.png) |
 
+另见 [音乐分类效果图](design/preview-music.png)，展示经典音乐、摇篮曲和自然环境声。
+
 - 播放页：频道名、类别/简介、播放状态、收藏、上一频道/播放暂停/下一频道、选频道和定时入口。
-- 频道页：儿童/音乐/资讯/收藏分类，一屏三项，大行高。点击直接切换并回到播放页。首版建议以家长确认的儿童内容为主，实际频道需验证合法公开流与稳定性后加入。
+- 频道页：儿童/音乐/资讯/收藏分类，一屏最多三项，大行高；收藏较多时可滚动。儿童包括苏州儿童广播、Fun Kids Junior和Story Quest；音乐包括经典音乐广播、Fun Kids Naps和Sleep Sounds；资讯包括中国之声与经济之声。点击切换并回到播放页。苏州台为亲子综合广播，按节目表播出，不是全天故事或纯儿歌台；频道分类也不代表所有节目适合1至3岁。
 - 定时页：关闭、15、30、45分钟；确认后返回播放页并显示时长。现稿仅演示选择，不运行真实停止倒计时。
 
 后续实现需复用系统音频所有权、实体音量、勿扰和儿童模式限制，与听书/语音助手互斥；处理连接、缓冲、播放、暂停、断网重连与音源不可用状态。电台只使用Wi-Fi网络音频流，不提供FM/AM调谐功能。界面插画应作为小幅静态资源预载，动态反馈仅用少量局部变化，避免全屏频繁刷新。
 
 本次设计阶段只保存原型及预览图片，尚未更改固件、应用版本和设备内容。
 
-2026-11-02验证：Chrome独立预览成功渲染三张480×480画面；播放/暂停、上下频道、收藏列表、选台返回、30分钟定时选择与显示检查通过。360px浏览器视口无横向溢出，月牙引用资源正常，无脚本异常。这是桌面交互原型检查，不代表设备音频或实机显示已完成。
+2026-11-02验证：八个音源经电脑配置的代理网络读取短片段，FFmpeg解码2秒成功；未验证开发板直连、长时稳定性或内容逐项审核。Chrome独立预览重新生成三张480×480画面；播放/暂停、分类、上下频道、收藏、选台返回、30分钟定时、目录一致性和文字边界检查通过。360px浏览器视口无横向溢出，月牙资源正常，无脚本异常。这是音源短测与桌面原型检查，设备播放器尚待开发。

diff --git a/TASK_STATUS.md b/TASK_STATUS.md
@@ -1,7 +1,7 @@
 # 项目接续状态（2026-11-02）
 
 - 固件：s3.41；听书0.3.6；小马遥控安卓0.2.3。
-- 电台App处于界面设计阶段：`brookesia-apps/radio/design/preview.html`含播放、频道、睡眠定时三页及480×480效果图；浏览器交互检查通过，频道为示例，尚未接入音源或安装到开发板。
+- 电台App处于界面设计阶段：`brookesia-apps/radio/design/preview.html`含播放、频道、睡眠定时三页及480×480效果图；按儿童/音乐/资讯/收藏列出八路真实频道，中文优先，英语明确标注，不按地区分组。音源经电脑代理网络短片段解码通过，目录见`brookesia-apps/radio/STATIONS.md`；浏览器分类、收藏与文字边界检查通过，尚未接入设备播放器或安装到开发板，直连与长期稳定性待验证。
 - 天气0.2.9已上板：按城市时区与日出日落判断昼夜，小时卡片各按预报时刻切换暖白/深蓝底色，以细边框与天空区分；19项回归及应用读回、动画检查通过。用户已确认整页白天配色及小时卡片配色、区分度正常，滑动顺畅；原透明图标索引保留。详见`codex-quota-monitor/WEATHER.md`。
 - Q版图标缓存1.1.0保留原图透明区域，去除旧RGB565合成的外层方形底色；预载器支持RGB565A8，新增第九份补丁，必须先安装s3.41再更新图标。详见`codex-quota-monitor/TRANSPARENT_ICONS.md`。
 - 透明图标已上板，用户确认外层底色消失、滑动顺畅；同固件整屏重绘中位耗时旧134ms、新139ms，最终PSRAM余量约2.82MiB。

diff --git a/CHANGELOG.md b/CHANGELOG.md
@@ -1,5 +1,10 @@
 # 更新记录
 
+## 2026-11-02：电台真实频道核验与原型名称更新
+
+- 恢复最初儿童/音乐/资讯/收藏分类，不按地区分组。八路真实频道替换示例名称：苏州儿童广播、Fun Kids Junior、Story Quest、经典音乐广播、Fun Kids Naps、Sleep Sounds、中国之声、经济之声。中文优先排列，英语明确标注；亲子综合广播、全天故事和自然环境声分开说明。
+- 新增公开频道目录与来源说明，八路音源经电脑代理网络读取短片段、FFmpeg解码2秒成功；原型内嵌目录与JSON一致，重新生成三页效果图并检查分类、收藏、上下频道、定时及文字边界。尚未接入设备播放器，开发板直连、HE-AAC/HLS兼容性及长时稳定性未验证；本轮不修改固件或设备内容。
+
 ## 2026-11-02：小马电台界面设计稿
 
 - 新增480×480奶油手绘风的播放、频道、睡眠定时三页原型，包含大号播放键、上下频道、收藏/分类、选台返回和关闭/15/30/45分钟定时选择，音量计划复用设备实体键。
